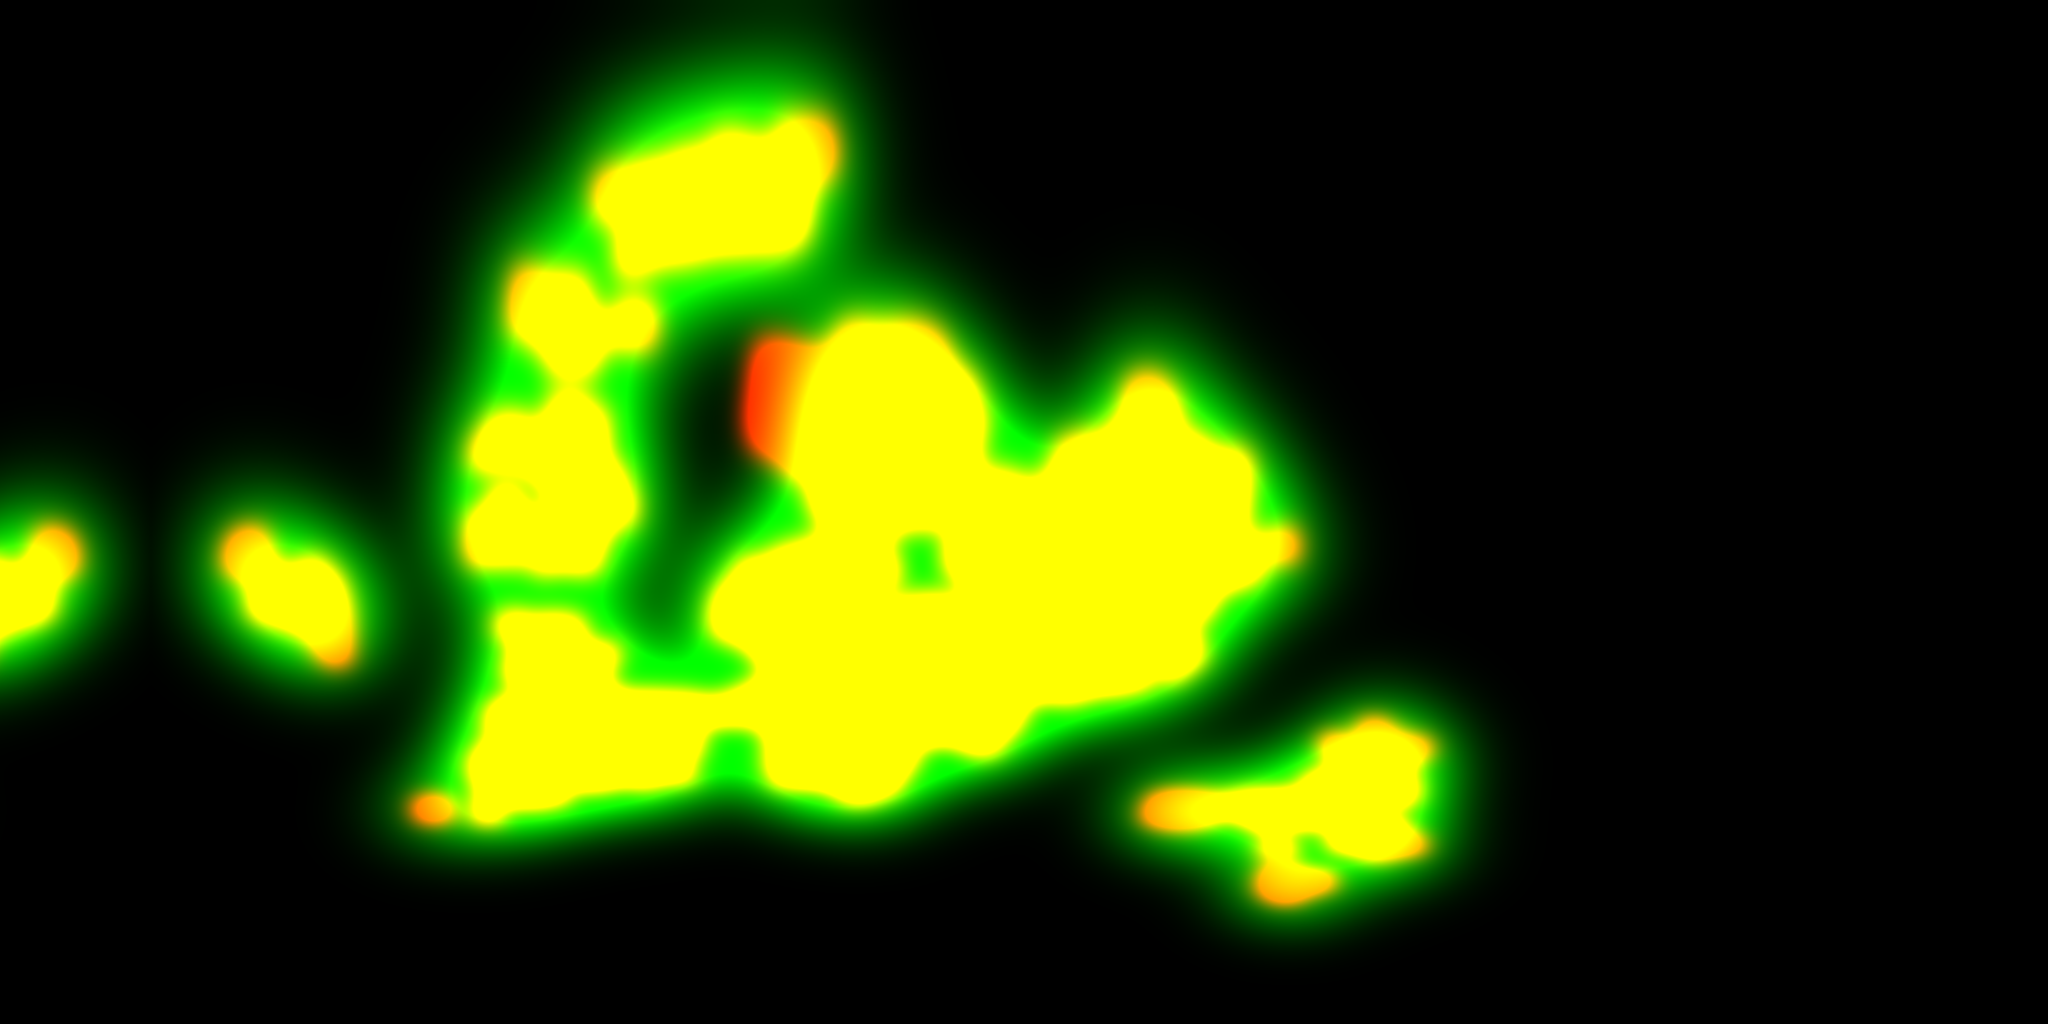
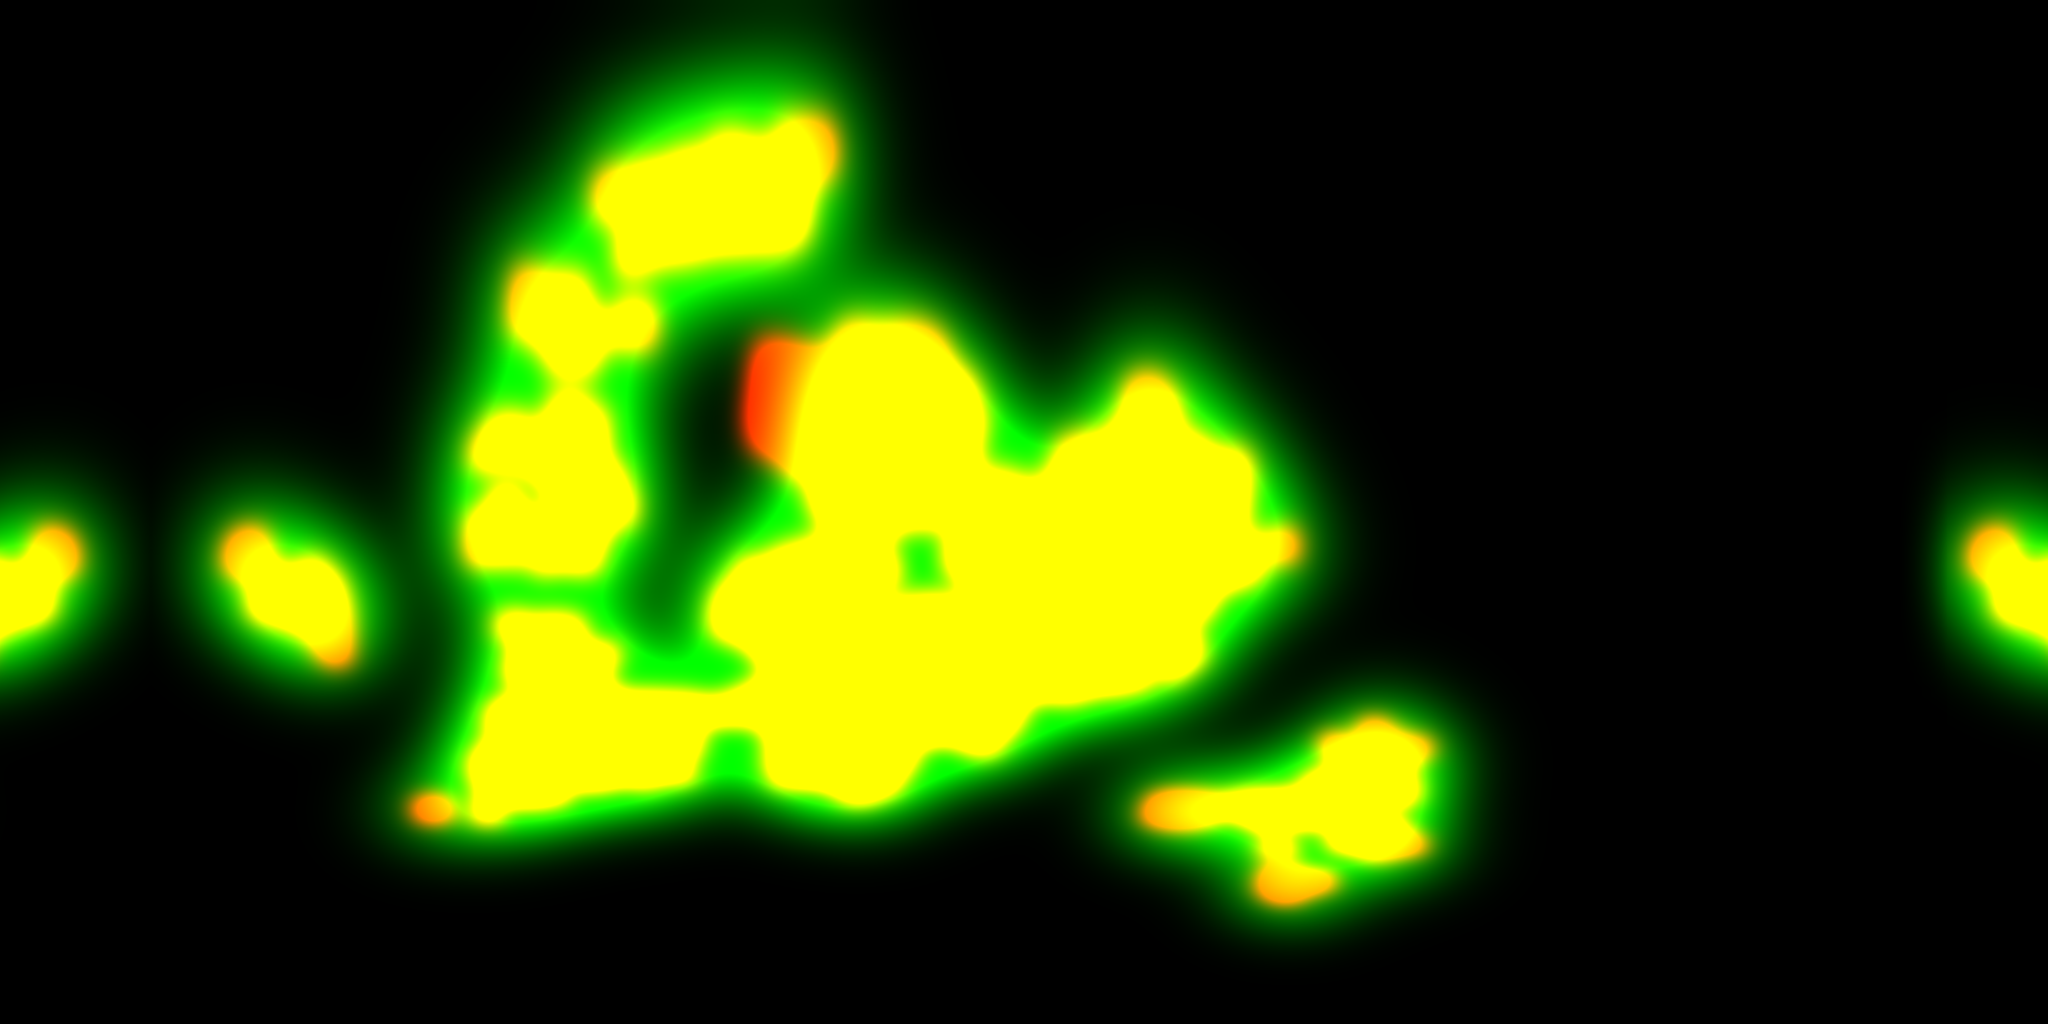
глобус без шва

Changed region(s): [[0.9375, 0.4375, 1.0, 0.6875]]

diff --git a/map.js b/map.js
@@ -334,7 +334,7 @@
       const mem = navigator.deviceMemory || 4, mts = ren.capabilities.maxTextureSize, scr = Math.max(screen.width, screen.height) * (devicePixelRatio || 1);
       const TQ = MOB || mts < 8192 ? '2k' : (mts >= 16384 && mem >= 8 && scr > 1800 ? '16k' : '8k');   // новый глобус по официальной карте v7.1.50: 16k ПК / 8k средний / 2k телефон
       const tex = tl.load('gearth' + TQ + '.jpg?v=20'); tex.anisotropy = Math.min(8, ren.capabilities.getMaxAnisotropy());
-      const landT = tl.load('gland' + TQ + '.png?v=20'), cloudT = tl.load('gcloud.png?v=20'); cloudT.minFilter = T.LinearFilter; cloudT.generateMipmaps = false;
+      const landT = tl.load('gland' + TQ + '.png?v=20'), cloudT = tl.load('gcloud.png?v=21'); cloudT.minFilter = T.LinearFilter; cloudT.generateMipmaps = false;
       const ridT = tl.load((TQ === '2k' ? 'grid.png' : 'grid8k.png') + '?v=21'); ridT.minFilter = ridT.magFilter = T.NearestFilter; ridT.generateMipmaps = false;
       // карта регионов для клика (на процессоре)
       let RID = null; const ri = new Image(); ri.onload = () => { const c = document.createElement('canvas'); c.width = ri.width; c.height = ri.height;

diff --git a/app.js b/app.js
@@ -824,7 +824,7 @@ const HVJ = id => JSON.parse(JSON.stringify(window.HVD[id]));   // копия д
             scr = Math.max(screen.width, screen.height) * (devicePixelRatio || 1);
       let mts = 4096; try { const g = document.createElement('canvas').getContext('webgl'); if (g){ mts = g.getParameter(g.MAX_TEXTURE_SIZE); const x = g.getExtension('WEBGL_lose_context'); x && x.loseContext(); } } catch(e){}
       const TQ = MOB || mts < 8192 ? '2k' : (mts >= 16384 && mem >= 8 && scr > 1800 ? '16k' : '8k');   // та же логика, что в глобусе (map.js)
-      const files = ['map.html', 'map.js?v=6', 'gearth' + TQ + '.jpg?v=20', 'gland' + TQ + '.png?v=20', 'gcloud.png?v=20', 'snzl.png?v=20', (TQ === '2k' ? 'grid.png' : 'grid8k.png') + '?v=21'];
+      const files = ['map.html', 'map.js?v=7', 'gearth' + TQ + '.jpg?v=20', 'gland' + TQ + '.png?v=20', 'gcloud.png?v=21', 'snzl.png?v=20', (TQ === '2k' ? 'grid.png' : 'grid8k.png') + '?v=21'];
       const ps = files.map(f => fetch(f).then(r => r.blob()).catch(()=>{}));
       ps.push(fetch('https://cdnjs.cloudflare.com/ajax/libs/three.js/r128/three.min.js', {mode: 'no-cors'}).then(r => r.blob()).catch(()=>{}));
       let n = 0; ps.forEach(p => p.then(() => n++));

diff --git a/map.html b/map.html
@@ -45,5 +45,5 @@
 </div>
 <script src="data.js?v=14"></script>
 <script src="app.js?v=8"></script>
-<script src="map.js?v=6"></script>
+<script src="map.js?v=7"></script>
 </body></html>
